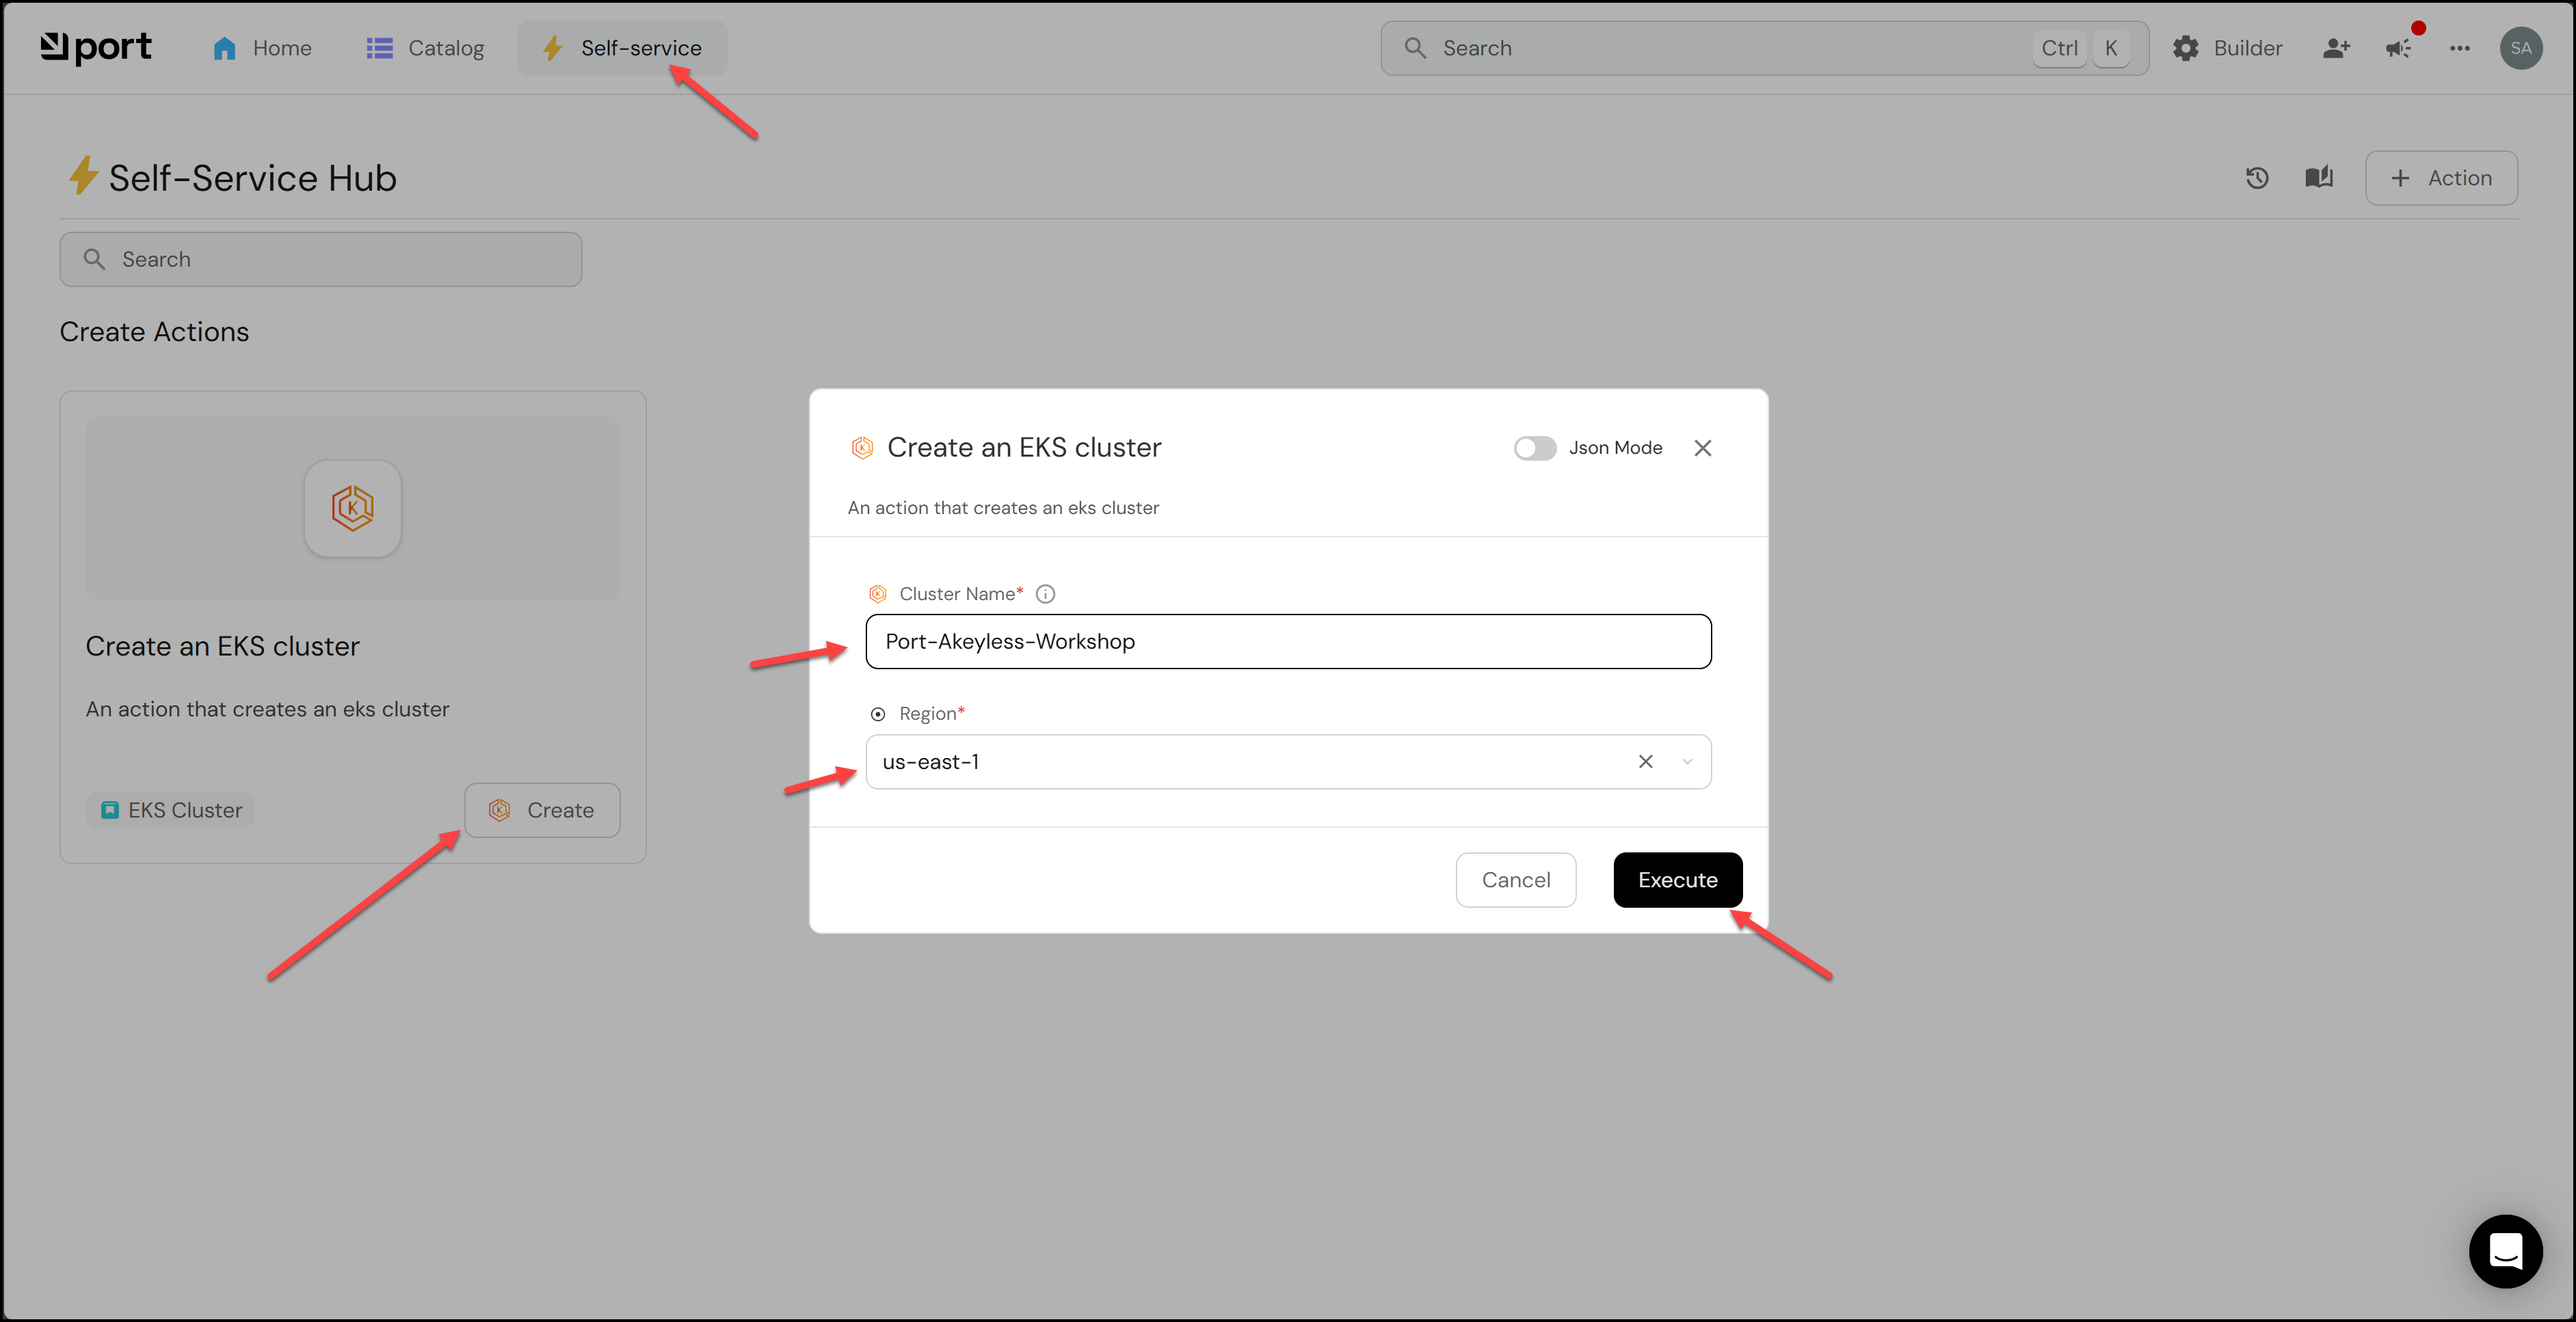
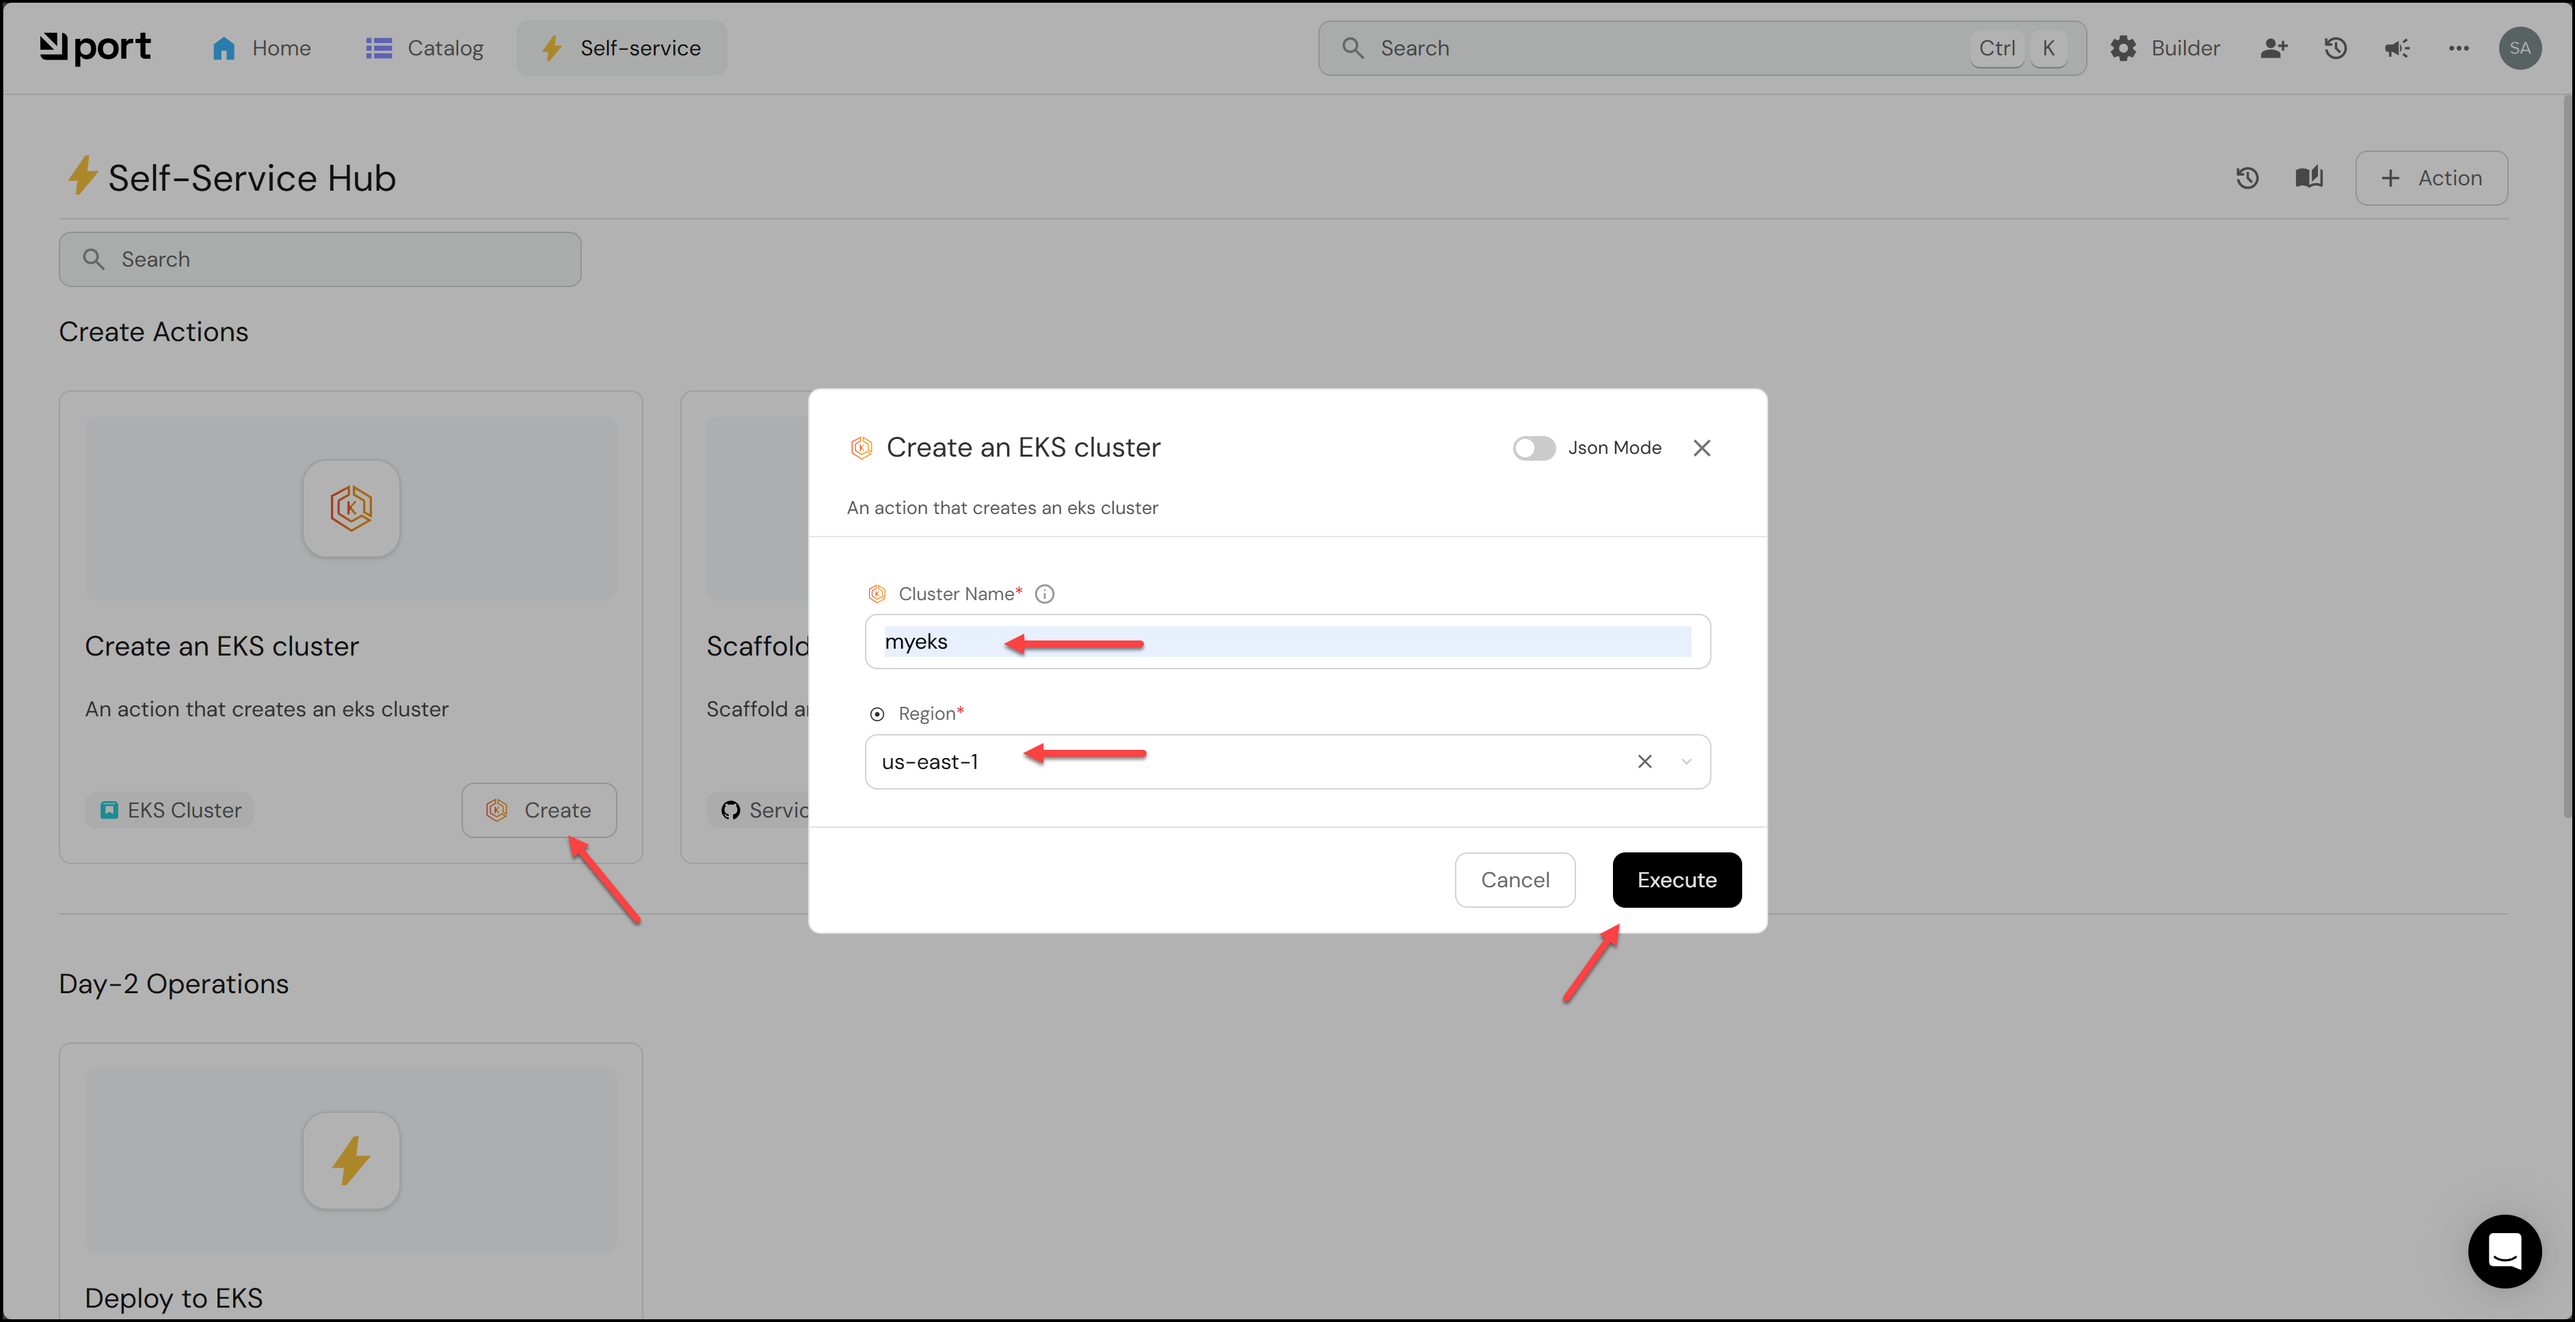
try fixing the eks auth issue

diff --git a/Lab05/guide.md b/Lab05/guide.md
@@ -38,7 +38,7 @@ git push
 
 ## 3. Create an EKS Cluster
 
-Go to the self-service page and click on the `Create` button under the `Create an EKS Cluster` action. Give it a short name and select the us-east-1 region then click `Execute`.
+Go to the self-service page and click on the `Create` button under the `Create an EKS Cluster` action. Give it a short name (otherwise EKS may complain) and select the us-east-1 region then click `Execute`.
 
 ![alt text](../images/port-create-eks-cluster-execute.png)
 
@@ -68,34 +68,45 @@ To get the kubeconfig for the cluster, run the command below replacing <your-eks
 
 ![alt text](../images/port-eks-cluster-catalog-2.png)
 
-Run the following script:
-
+Run the following command:
 
 ```bash
-akeyless configure --profile default --access-id "$(jq -r .access_id creds_api_key_auth.json)" --access-key "$(jq -r .access_key creds_api_key_auth.json)"
-AWS_CREDS=$(akeyless dynamic-secret get-value --name '/Workshops/Akeyless-Port-1/AWS-Dynamic')
-echo AWS_CREDS: $AWS_CREDS
-echo "AWS_ACCESS_KEY_ID=$(echo $AWS_CREDS | jq -r '.access_key_id')" >> $GITHUB_ENV
-echo "AWS_SECRET_ACCESS_KEY=$(echo $AWS_CREDS | jq -r '.secret_access_key')" >> $GITHUB_ENV
 aws eks update-kubeconfig --region us-east-1 --name <your-eks-cluster-name>
 ```
 
-> Note: If after you run the pipeline and find that you get an error accessing the cluster, it could be that you need to refresh the AWS credentials you're using, that is if you are using the ones provided by TeKanAid Academy. You can refresh them by running the command: `Lab01/start.sh` again.
+> Note: If after you run the pipeline and find that you get an error accessing the cluster, it could be that you need to refresh the AWS credentials you're using, that is if you are using the ones provided by TeKanAid Academy. You can refresh them by running the command: `Lab01/start.sh` again. You will also need to update the AWS credentials in the `terraform/main.tf` file.
 
 You can now use `kubectl` to access the cluster.
 
 Below are some suggested commands for you to run.
 
 ```bash
-@tekanaid ➜ /workspaces/akeyless-workshop-1/terraform (main) $ kubens
+kubens # alias for kubectl get namespaces
+```
+
+Output:
+```
 default
 kube-node-lease
 kube-public
 kube-system
-@tekanaid ➜ /workspaces/akeyless-workshop-1/terraform (main) $ kubens kube-system
+```
+
+```bash
+kubens kube-system # to switch to the kube-system namespace
+```
+
+Output:
+```
 Context "arn:aws:eks:us-east-1:047709130171:cluster/workshop-1-AYEsefOJ" modified.
 Active namespace is "kube-system".
-@tekanaid ➜ /workspaces/akeyless-workshop-1/terraform (main) $ kga
+
+```bash
+kga # alias for kubectl get all
+```
+
+Output:
+```
 NAME                                      READY   STATUS    RESTARTS   AGE
 pod/aws-node-p9sc2                        2/2     Running   0          21m
 pod/aws-node-pd6f6                        2/2     Running   0          21m
